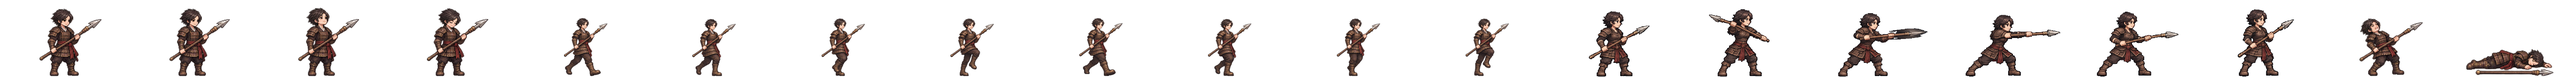
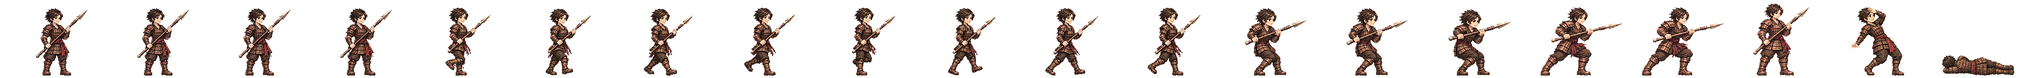
이서 말괄량이 장군 새 전투 띠를 게임에 넣음(서기·걷기·창 찌르기 여덟 칸·쓰러짐·머리 털고 씩 웃기)
찌르기 첫 판은 몸이 서기보다 작고 가늘어 한 번 다시 그렸다. 다시 그린 판은 어깨·팔 부피가 서기와 같지만 끝 칸이 7% 크다(두 판 모두 띠 검사 합격 · 눈으로 견주어 다시 그린 판을 씀).

Claude-Session: https://claude.ai/code/session_01TRiuN7s6aDfSnaHxrkctmU

Changed region(s): [[0.4688, 0.0625, 1.0, 0.9688], [0.2188, 0.125, 0.4375, 0.9688], [0.0, 0.125, 0.1875, 0.9688]]

diff --git a/src/realm/data/spritePx.ts b/src/realm/data/spritePx.ts
@@ -1,3 +1,3 @@
 /** public/realm/anim-px/manifest.json 의 사본 — tools/sprite-normalize.mjs 가 만든다 (손으로 고치지 말 것). 칸 [가로, 세로] · feet = 발 줄(칸 위에서 y) · bodyPx = 서 있는 몸 키 */
 import { expandManifest } from './sprite-manifest.ts'
-export const SPRITE_PX: Readonly<Record<string, { readonly cell: readonly [number, number]; readonly feet: number; readonly bodyPx: number; readonly kind: 'general' | 'soldier' | 'folk' | 'crowd'; readonly cells: number }>> = expandManifest<{ readonly cell: readonly [number, number]; readonly feet: number; readonly bodyPx: number; readonly kind: 'general' | 'soldier' | 'folk' | 'crowd'; readonly cells: number }>([{"cell":[166,128],"feet":126,"bodyPx":124,"kind":"soldier","cells":20},{"cell":[116,128],"feet":126,"bodyPx":117,"kind":"soldier","cells":20},{"cell":[127,128],"feet":126,"bodyPx":116,"kind":"soldier","cells":20},{"cell":[269,128],"feet":126,"bodyPx":126,"kind":"soldier","cells":20},{"cell":[503,128],"feet":126,"bodyPx":127,"kind":"soldier","cells":20},{"cell":[614,128],"feet":126,"bodyPx":126,"kind":"soldier","cells":20},{"cell":[200,160],"feet":156,"bodyPx":138,"kind":"general","cells":20},{"cell":[208,160],"feet":155,"bodyPx":138,"kind":"general","cells":20},{"cell":[208,160],"feet":154,"bodyPx":138,"kind":"general","cells":20},{"cell":[304,160],"feet":155,"bodyPx":135,"kind":"general","cells":20},{"cell":[224,160],"feet":156,"bodyPx":139,"kind":"general","cells":20},{"cell":[184,160],"feet":156,"bodyPx":138,"kind":"general","cells":20},{"cell":[208,160],"feet":154,"bodyPx":136,"kind":"general","cells":20},{"cell":[240,160],"feet":156,"bodyPx":138,"kind":"general","cells":20},{"cell":[232,160],"feet":156,"bodyPx":138,"kind":"general","cells":20},{"cell":[208,160],"feet":156,"bodyPx":138,"kind":"general","cells":20},{"cell":[168,160],"feet":156,"bodyPx":138,"kind":"general","cells":20},{"cell":[192,160],"feet":156,"bodyPx":138,"kind":"general","cells":20},{"cell":[168,160],"feet":156,"bodyPx":124,"kind":"general","cells":20},{"cell":[216,160],"feet":156,"bodyPx":130,"kind":"general","cells":20},{"cell":[200,160],"feet":156,"bodyPx":116,"kind":"general","cells":20},{"cell":[200,160],"feet":156,"bodyPx":135,"kind":"general","cells":20},{"cell":[280,160],"feet":156,"bodyPx":138,"kind":"general","cells":20},{"cell":[232,160],"feet":155,"bodyPx":138,"kind":"general","cells":20},{"cell":[232,160],"feet":156,"bodyPx":134,"kind":"general","cells":20},{"cell":[144,160],"feet":156,"bodyPx":70,"kind":"general","cells":20},{"cell":[208,160],"feet":156,"bodyPx":70,"kind":"general","cells":20},{"cell":[192,160],"feet":156,"bodyPx":70,"kind":"general","cells":20},{"cell":[240,160],"feet":155,"bodyPx":138,"kind":"general","cells":20},{"cell":[160,160],"feet":156,"bodyPx":135,"kind":"general","cells":20},{"cell":[192,160],"feet":156,"bodyPx":128,"kind":"general","cells":20},{"cell":[224,160],"feet":155,"bodyPx":138,"kind":"general","cells":20},{"cell":[232,160],"feet":156,"bodyPx":139,"kind":"general","cells":20},{"cell":[216,160],"feet":156,"bodyPx":138,"kind":"general","cells":20},{"cell":[208,160],"feet":156,"bodyPx":134,"kind":"general","cells":20},{"cell":[176,160],"feet":156,"bodyPx":130,"kind":"general","cells":20},{"cell":[248,160],"feet":156,"bodyPx":138,"kind":"general","cells":20},{"cell":[248,160],"feet":155,"bodyPx":138,"kind":"general","cells":20},{"cell":[192,160],"feet":155,"bodyPx":138,"kind":"general","cells":20},{"cell":[192,160],"feet":156,"bodyPx":124,"kind":"general","cells":20},{"cell":[208,160],"feet":154,"bodyPx":131,"kind":"general","cells":20},{"cell":[256,160],"feet":156,"bodyPx":138,"kind":"general","cells":20},{"cell":[232,160],"feet":156,"bodyPx":73,"kind":"general","cells":20},{"cell":[256,160],"feet":155,"bodyPx":138,"kind":"general","cells":20},{"cell":[264,160],"feet":156,"bodyPx":138,"kind":"general","cells":20},{"cell":[224,160],"feet":156,"bodyPx":138,"kind":"general","cells":20},{"cell":[224,160],"feet":156,"bodyPx":128,"kind":"general","cells":20},{"cell":[176,160],"feet":156,"bodyPx":129,"kind":"general","cells":20},{"cell":[208,160],"feet":154,"bodyPx":139,"kind":"general","cells":20},{"cell":[208,160],"feet":156,"bodyPx":132,"kind":"general","cells":20},{"cell":[216,160],"feet":155,"bodyPx":138,"kind":"general","cells":20},{"cell":[184,160],"feet":156,"bodyPx":122,"kind":"general","cells":20},{"cell":[176,160],"feet":156,"bodyPx":138,"kind":"general","cells":20},{"cell":[280,160],"feet":155,"bodyPx":133,"kind":"general","cells":20},{"cell":[176,160],"feet":156,"bodyPx":70,"kind":"general","cells":20},{"cell":[186,128],"feet":126,"bodyPx":127,"kind":"soldier","cells":20},{"cell":[298,128],"feet":126,"bodyPx":126,"kind":"soldier","cells":20},{"cell":[82,128],"feet":126,"bodyPx":114,"kind":"folk","cells":8},{"cell":[134,128],"feet":126,"bodyPx":119,"kind":"soldier","cells":20},{"cell":[380,128],"feet":126,"bodyPx":124,"kind":"soldier","cells":20},{"cell":[114,128],"feet":126,"bodyPx":115,"kind":"soldier","cells":20},{"cell":[122,128],"feet":126,"bodyPx":114,"kind":"soldier","cells":20},{"cell":[254,128],"feet":126,"bodyPx":128,"kind":"soldier","cells":20},{"cell":[438,128],"feet":126,"bodyPx":126,"kind":"soldier","cells":20},{"cell":[88,128],"feet":126,"bodyPx":113,"kind":"folk","cells":8},{"cell":[100,128],"feet":126,"bodyPx":115,"kind":"folk","cells":8},{"cell":[108,128],"feet":126,"bodyPx":115,"kind":"folk","cells":8},{"cell":[63,128],"feet":126,"bodyPx":113,"kind":"folk","cells":8},{"cell":[69,96],"feet":96,"bodyPx":96,"kind":"crowd","cells":1},{"cell":[54,96],"feet":96,"bodyPx":96,"kind":"crowd","cells":1},{"cell":[47,96],"feet":96,"bodyPx":96,"kind":"crowd","cells":1},{"cell":[49,96],"feet":96,"bodyPx":96,"kind":"crowd","cells":1},{"cell":[57,96],"feet":96,"bodyPx":96,"kind":"crowd","cells":1},{"cell":[55,96],"feet":96,"bodyPx":96,"kind":"crowd","cells":1},{"cell":[45,96],"feet":96,"bodyPx":96,"kind":"crowd","cells":1},{"cell":[53,96],"feet":96,"bodyPx":96,"kind":"crowd","cells":1},{"cell":[64,96],"feet":96,"bodyPx":96,"kind":"crowd","cells":1},{"cell":[184,160],"feet":156,"bodyPx":124,"kind":"general","cells":20},{"cell":[184,160],"feet":156,"bodyPx":134,"kind":"general","cells":20},{"cell":[224,160],"feet":156,"bodyPx":133,"kind":"general","cells":20},{"cell":[192,160],"feet":156,"bodyPx":135,"kind":"general","cells":20},{"cell":[184,160],"feet":156,"bodyPx":137,"kind":"general","cells":20},{"cell":[216,160],"feet":156,"bodyPx":134,"kind":"general","cells":20},{"cell":[216,160],"feet":156,"bodyPx":132,"kind":"general","cells":20},{"cell":[288,160],"feet":156,"bodyPx":138,"kind":"general","cells":20},{"cell":[192,160],"feet":156,"bodyPx":118,"kind":"general","cells":20},{"cell":[192,160],"feet":156,"bodyPx":134,"kind":"general","cells":20},{"cell":[192,160],"feet":157,"bodyPx":139,"kind":"general","cells":20},{"cell":[184,160],"feet":156,"bodyPx":128,"kind":"general","cells":20},{"cell":[240,160],"feet":156,"bodyPx":128,"kind":"general","cells":20},{"cell":[184,160],"feet":156,"bodyPx":132,"kind":"general","cells":20},{"cell":[208,160],"feet":156,"bodyPx":123,"kind":"general","cells":20},{"cell":[208,160],"feet":154,"bodyPx":137,"kind":"general","cells":20},{"cell":[176,160],"feet":156,"bodyPx":116,"kind":"general","cells":20},{"cell":[272,160],"feet":156,"bodyPx":138,"kind":"general","cells":20},{"cell":[176,160],"feet":156,"bodyPx":122,"kind":"general","cells":20},{"cell":[232,160],"feet":156,"bodyPx":127,"kind":"general","cells":20},{"cell":[176,160],"feet":156,"bodyPx":137,"kind":"general","cells":20},{"cell":[184,160],"feet":156,"bodyPx":133,"kind":"general","cells":20}],[["axe",0],["bandit-chief",1],["bandit-club",2],["boat",3],["bow",4],["crossbow",5],["gen-adogan",6],["gen-alpyeong",7],["gen-ara",8],["gen-areum",8],["gen-aryeong",9],["gen-bakdal",6],["gen-baram",10],["gen-bdanbi",11],["gen-beom",12],["gen-beombal",11],["gen-beomi",13],["gen-bira",14],["gen-biryu",15],["gen-budeul",16],["gen-byeol",17],["gen-daemusin",18],["gen-daeso",19],["gen-dallae2",11],["gen-dalli",11],["gen-damul",20],["gen-danbi",15],["gen-dangung",17],["gen-darae",21],["gen-dokmudeom",7],["gen-duman",22],["gen-eomni",23],["gen-eureum",24],["gen-g-bow",25],["gen-g-spear",26],["gen-g-sword",27],["gen-gaennae",6],["gen-gamsil",28],["gen-gaon",29],["gen-geota",15],["gen-geumbawi",11],["gen-geumha",30],["gen-goeun",15],["gen-gom",31],["gen-gomok",15],["gen-gureum",28],["gen-guryema",17],["gen-gwaeyu",14],["gen-haebi",8],["gen-haedal",6],["gen-haesol",32],["gen-halla",7],["gen-heo",8],["gen-hneoul",11],["gen-hogong",33],["gen-hojin",15],["gen-horselord",34],["gen-hwalmi",35],["gen-hyeokgeose",17],["gen-hyeopbo",6],["gen-irang",15],["gen-jibaekho",36],["gen-jinha",37],["gen-jita",38],["gen-jumong",39],["gen-keundol",7],["gen-maehwa",40],["gen-maenun",17],["gen-malgalgi",41],["gen-mari",13],["gen-maro",36],["gen-maryeo",15],["gen-mdallae",32],["gen-mir",6],["gen-mount",42],["gen-mulbeom",43],["gen-mulsae",33],["gen-musoe",33],["gen-noeul",8],["gen-nuri",44],["gen-ocheongan",45],["gen-odi",37],["gen-odogan",6],["gen-ogan",17],["gen-oi",46],["gen-olddaeso",24],["gen-onjo",47],["gen-pidogan",15],["gen-sagong",48],["gen-sdallae",6],["gen-sincheongan",33],["gen-singwigan",33],["gen-sinneoul",8],["gen-sobeol",23],["gen-soebi",6],["gen-soebo",49],["gen-soenun",36],["gen-sogeumbi",50],["gen-songbi",45],["gen-songyang",51],["gen-sori",52],["gen-soseono",53],["gen-suro",17],["gen-tahae",6],["gen-tneoul",45],["gen-w-bow",25],["gen-w-spear",54],["gen-waechief",15],["gen-wan",33],["gen-yeodogan",15],["gen-yucheongan",15],["gen-yusugan",36],["horse",55],["marine",56],["migrant",57],["militia",58],["pike",59],["pirate-captain",60],["pirate-sword",61],["shield",62],["spear",63],["villager-builder",64],["villager-farmer",65],["villager-porter",66],["villager-woman",67],["crowd-b1",68],["crowd-b2",69],["crowd-b3",70],["crowd-b4",71],["crowd-b5",72],["crowd-b6",73],["crowd-f1",68],["crowd-f2",73],["crowd-f3",74],["crowd-f4",75],["crowd-f5",68],["crowd-f6",76],["gen-dalbit",15],["gen-base-g-07-drunk-warrior",17],["gen-base-g-40-anya-adan",15],["gen-base-w-13-young-archer",8],["gen-base-g-03-sea-trader",13],["gen-base-w-10-pirate-captain",48],["gen-base-w-64-miri-dallae",48],["gen-base-g-41-goja-bau",13],["gen-base-g-42-dokro-garam",44],["gen-base-g-09-farmer-conscript",33],["gen-base-w-02-goguryeo-lady",33],["gen-base-w-17-mahan-pearl-diver",8],["gen-base-g-17-saro-isageum",49],["gen-base-g-18-daegaya-king",77],["gen-base-g-35-dabeol-dalgu",15],["gen-base-g-19-sabeol-veteran",33],["gen-base-w-23-usisan-whale-queen",8],["gen-base-g-36-gammun-gamdol",45],["gen-base-g-20-samul-sea-lord",41],["gen-base-g-37-eumjeup-jeup",11],["gen-base-g-38-chopal-palmae",17],["gen-base-w-75-daegaya-soemoe",17],["gen-base-g-45-dabeol-deulgae",11],["gen-base-g-04-jinhan-giant",15],["gen-base-g-08-veteran",15],["gen-base-w-18-jinhan-salt-widow",15],["gen-base-w-12-court-dancer",78],["gen-base-w-83-gyeonji-beodeul",79],["gen-base-w-05-baekje-queen",80],["gen-base-w-21-baekje-court-dancer",11],["gen-base-g-01-master-smith",81],["gen-base-g-93-jomun-solgae",35],["gen-base-g-57-bihwa-neup",13],["gen-base-w-72-eumjeup-beol",15],["gen-base-w-102-garak-dana",33],["gen-base-g-68-baekje-onnuri",15],["gen-base-w-27-mokji-jinha",6],["gen-base-g-22-ungcheon-gomnae",6],["gen-base-g-23-sangdang-soedal",15],["gen-base-g-24-wansan-onsan",6],["gen-base-g-25-balla-keunmoe",33],["gen-base-g-61-heomcheuk-bawi",33],["gen-base-g-88-wander-soeul",45],["gen-base-w-14-feast-spy",6],["gen-base-g-12-silla-youth",82],["gen-base-w-08-mahan-warrior",8],["gen-base-g-62-beonye-hanul",13],["gen-base-g-63-heomcheuk-beogeum",15],["gen-base-g-84-wander-seoneul",15],["gen-base-w-50-siljik-mulga",33],["gen-base-g-46-uga-nureongso",33],["gen-base-w-80-usan-gangchi",13],["gen-base-g-47-guga-sanyanggae",33],["gen-base-w-76-gampyeong-baetsagong",36],["gen-base-g-05-mahan-chieftain",83],["gen-base-g-58-usan-uhae",15],["gen-base-g-27-maek-maekdol",15],["gen-base-w-53-hwanna-gabi",16],["gen-base-w-29-golpo-janmul",36],["gen-base-g-53-baekje-haeru",6],["gen-base-w-71-yeonna-neoul",13],["gen-base-w-79-yangmaek-solmae",33],["gen-base-w-34-chopal-deulme",44],["gen-base-g-44-maga-malgup",84],["gen-base-w-31-dabeol-dalbit",48],["gen-base-g-51-biryuna-mulgyeol",45],["gen-base-g-48-gwanna-musoe",15],["gen-base-g-32-uga-sodu",14],["gen-base-g-49-goguryeo-sona",85],["gen-base-g-30-gwanna-soemoe",45],["gen-base-g-52-tamna-oreum",11],["gen-base-g-29-yeonna-myeongsol",39],["gen-base-w-56-dongokjeo-sogeum",86],["gen-base-g-54-mokji-mahan",14],["gen-base-g-33-jeoga-metdol",17],["gen-base-w-36-baekje-maena",17],["gen-base-w-38-sangdang-bulmae",6],["gen-base-w-39-gosaburi-galmae",87],["gen-base-w-40-mujin-munui",49],["gen-base-w-41-hwanna-beodeul",88],["gen-base-w-43-uga-nuri",41],["gen-base-w-45-tamna-oreumbi",11],["gen-base-g-60-golbeol-golgae",11],["gen-base-g-61-apdok-ap",33],["gen-base-g-62-gammun-gamnamu",6],["gen-base-g-63-chopal-yeoul",36],["gen-base-g-64-michuhol-sogeumkkun",13],["gen-base-g-65-sangdang-soemangchi",45],["gen-base-g-66-geonma-malbalgup",89],["gen-base-g-67-gosaburi-buri",90],["gen-base-g-68-mujin-bitgoeul",11],["gen-base-g-69-goryong-yong",45],["gen-base-g-70-siljik-pado",13],["gen-base-w-81-byeokjin-byeolbit",14],["gen-base-w-46-geonma-maru",36],["gen-base-w-48-mujin-mudeung",13],["gen-base-g-26-gampyeong-gaetbeol",14],["gen-base-g-60-eupcha-hangyeol",91],["gen-base-g-15-shaman-man",33],["gen-base-g-85-wander-ure",36],["gen-base-g-43-hwanna-amnok",15],["gen-base-g-50-bullae-gwaha",80],["gen-base-g-55-saro-bakdal",15],["gen-base-g-56-haseulla-gwahama",6],["gen-base-w-06-buyeo-huntress",92],["gen-base-w-22-dongye-tiger-huntress",8],["gen-base-w-25-bihwa-priestess",33],["gen-base-w-24-apdok-queen",11],["gen-base-w-61-iseo-sinae",15],["gen-base-w-26-iseo-tomboy-general",44],["gen-base-g-59-yangmaek-maekson",93],["gen-aw1-haebi",45],["gen-aw1-soseono",94],["gen-aw1-gamsil",11],["gen-aw1-mir",52],["gen-aw1-dangung",6],["gen-aw1-ara",45],["gen-aw1-jumong",95],["gen-aw1-onjo",96],["gen-aw1-base-w-83-gyeonji-beodeul",17],["gen-aw1-heo",44],["gen-aw1-base-g-38-chopal-palmae",6],["gen-aw1-base-w-25-bihwa-priestess",78],["gen-aw1-sori",16],["gen-aw1-gomok",6],["gen-aw1-irang",17],["gen-aw1-budeul",16],["gen-aw1-gom",13],["gen-aw1-sdallae",6],["gen-aw1-base-w-13-young-archer",6],["gen-aw1-base-w-36-baekje-maena",97],["gen-aw1-base-g-09-farmer-conscript",44],["gen-aw1-base-w-02-goguryeo-lady",98],["gen-aw1-haedal",11],["gen-aw1-hogong",6],["gen-aw1-maehwa",52],["gen-aw1-base-w-06-buyeo-huntress",14],["gen-aw1-base-w-08-mahan-warrior",45],["gen-aw1-base-w-29-golpo-janmul",45],["gen-aw1-base-w-31-dabeol-dalbit",17],["gen-aw1-base-w-38-sangdang-bulmae",16],["gen-aw1-bira",33],["gen-aw1-base-w-53-hwanna-gabi",16],["gen-aw1-base-w-56-dongokjeo-sogeum",52],["gen-aw1-base-w-72-eumjeup-beol",17],["gen-aw1-bdanbi",16],["gen-aw1-beom",11],["gen-aw1-beombal",11],["gen-aw1-byeol",17],["gen-aw1-dalli",52],["gen-aw1-malgalgi",36],["gen-aw1-sincheongan",33]])
+export const SPRITE_PX: Readonly<Record<string, { readonly cell: readonly [number, number]; readonly feet: number; readonly bodyPx: number; readonly kind: 'general' | 'soldier' | 'folk' | 'crowd'; readonly cells: number }>> = expandManifest<{ readonly cell: readonly [number, number]; readonly feet: number; readonly bodyPx: number; readonly kind: 'general' | 'soldier' | 'folk' | 'crowd'; readonly cells: number }>([{"cell":[166,128],"feet":126,"bodyPx":124,"kind":"soldier","cells":20},{"cell":[116,128],"feet":126,"bodyPx":117,"kind":"soldier","cells":20},{"cell":[127,128],"feet":126,"bodyPx":116,"kind":"soldier","cells":20},{"cell":[269,128],"feet":126,"bodyPx":126,"kind":"soldier","cells":20},{"cell":[503,128],"feet":126,"bodyPx":127,"kind":"soldier","cells":20},{"cell":[614,128],"feet":126,"bodyPx":126,"kind":"soldier","cells":20},{"cell":[200,160],"feet":156,"bodyPx":138,"kind":"general","cells":20},{"cell":[208,160],"feet":155,"bodyPx":138,"kind":"general","cells":20},{"cell":[208,160],"feet":154,"bodyPx":138,"kind":"general","cells":20},{"cell":[304,160],"feet":155,"bodyPx":135,"kind":"general","cells":20},{"cell":[224,160],"feet":156,"bodyPx":139,"kind":"general","cells":20},{"cell":[184,160],"feet":156,"bodyPx":138,"kind":"general","cells":20},{"cell":[208,160],"feet":154,"bodyPx":136,"kind":"general","cells":20},{"cell":[240,160],"feet":156,"bodyPx":138,"kind":"general","cells":20},{"cell":[232,160],"feet":156,"bodyPx":138,"kind":"general","cells":20},{"cell":[208,160],"feet":156,"bodyPx":138,"kind":"general","cells":20},{"cell":[168,160],"feet":156,"bodyPx":138,"kind":"general","cells":20},{"cell":[192,160],"feet":156,"bodyPx":138,"kind":"general","cells":20},{"cell":[168,160],"feet":156,"bodyPx":124,"kind":"general","cells":20},{"cell":[216,160],"feet":156,"bodyPx":130,"kind":"general","cells":20},{"cell":[200,160],"feet":156,"bodyPx":116,"kind":"general","cells":20},{"cell":[200,160],"feet":156,"bodyPx":135,"kind":"general","cells":20},{"cell":[280,160],"feet":156,"bodyPx":138,"kind":"general","cells":20},{"cell":[232,160],"feet":155,"bodyPx":138,"kind":"general","cells":20},{"cell":[232,160],"feet":156,"bodyPx":134,"kind":"general","cells":20},{"cell":[144,160],"feet":156,"bodyPx":70,"kind":"general","cells":20},{"cell":[208,160],"feet":156,"bodyPx":70,"kind":"general","cells":20},{"cell":[192,160],"feet":156,"bodyPx":70,"kind":"general","cells":20},{"cell":[240,160],"feet":155,"bodyPx":138,"kind":"general","cells":20},{"cell":[160,160],"feet":156,"bodyPx":135,"kind":"general","cells":20},{"cell":[192,160],"feet":156,"bodyPx":128,"kind":"general","cells":20},{"cell":[224,160],"feet":155,"bodyPx":138,"kind":"general","cells":20},{"cell":[232,160],"feet":156,"bodyPx":139,"kind":"general","cells":20},{"cell":[216,160],"feet":156,"bodyPx":138,"kind":"general","cells":20},{"cell":[208,160],"feet":156,"bodyPx":134,"kind":"general","cells":20},{"cell":[176,160],"feet":156,"bodyPx":130,"kind":"general","cells":20},{"cell":[248,160],"feet":156,"bodyPx":138,"kind":"general","cells":20},{"cell":[248,160],"feet":155,"bodyPx":138,"kind":"general","cells":20},{"cell":[192,160],"feet":155,"bodyPx":138,"kind":"general","cells":20},{"cell":[192,160],"feet":156,"bodyPx":124,"kind":"general","cells":20},{"cell":[208,160],"feet":154,"bodyPx":131,"kind":"general","cells":20},{"cell":[256,160],"feet":156,"bodyPx":138,"kind":"general","cells":20},{"cell":[232,160],"feet":156,"bodyPx":73,"kind":"general","cells":20},{"cell":[256,160],"feet":155,"bodyPx":138,"kind":"general","cells":20},{"cell":[264,160],"feet":156,"bodyPx":138,"kind":"general","cells":20},{"cell":[224,160],"feet":156,"bodyPx":138,"kind":"general","cells":20},{"cell":[224,160],"feet":156,"bodyPx":128,"kind":"general","cells":20},{"cell":[176,160],"feet":156,"bodyPx":129,"kind":"general","cells":20},{"cell":[208,160],"feet":154,"bodyPx":139,"kind":"general","cells":20},{"cell":[208,160],"feet":156,"bodyPx":132,"kind":"general","cells":20},{"cell":[216,160],"feet":155,"bodyPx":138,"kind":"general","cells":20},{"cell":[184,160],"feet":156,"bodyPx":122,"kind":"general","cells":20},{"cell":[176,160],"feet":156,"bodyPx":138,"kind":"general","cells":20},{"cell":[280,160],"feet":155,"bodyPx":133,"kind":"general","cells":20},{"cell":[176,160],"feet":156,"bodyPx":70,"kind":"general","cells":20},{"cell":[186,128],"feet":126,"bodyPx":127,"kind":"soldier","cells":20},{"cell":[298,128],"feet":126,"bodyPx":126,"kind":"soldier","cells":20},{"cell":[82,128],"feet":126,"bodyPx":114,"kind":"folk","cells":8},{"cell":[134,128],"feet":126,"bodyPx":119,"kind":"soldier","cells":20},{"cell":[380,128],"feet":126,"bodyPx":124,"kind":"soldier","cells":20},{"cell":[114,128],"feet":126,"bodyPx":115,"kind":"soldier","cells":20},{"cell":[122,128],"feet":126,"bodyPx":114,"kind":"soldier","cells":20},{"cell":[254,128],"feet":126,"bodyPx":128,"kind":"soldier","cells":20},{"cell":[438,128],"feet":126,"bodyPx":126,"kind":"soldier","cells":20},{"cell":[88,128],"feet":126,"bodyPx":113,"kind":"folk","cells":8},{"cell":[100,128],"feet":126,"bodyPx":115,"kind":"folk","cells":8},{"cell":[108,128],"feet":126,"bodyPx":115,"kind":"folk","cells":8},{"cell":[63,128],"feet":126,"bodyPx":113,"kind":"folk","cells":8},{"cell":[69,96],"feet":96,"bodyPx":96,"kind":"crowd","cells":1},{"cell":[54,96],"feet":96,"bodyPx":96,"kind":"crowd","cells":1},{"cell":[47,96],"feet":96,"bodyPx":96,"kind":"crowd","cells":1},{"cell":[49,96],"feet":96,"bodyPx":96,"kind":"crowd","cells":1},{"cell":[57,96],"feet":96,"bodyPx":96,"kind":"crowd","cells":1},{"cell":[55,96],"feet":96,"bodyPx":96,"kind":"crowd","cells":1},{"cell":[45,96],"feet":96,"bodyPx":96,"kind":"crowd","cells":1},{"cell":[53,96],"feet":96,"bodyPx":96,"kind":"crowd","cells":1},{"cell":[64,96],"feet":96,"bodyPx":96,"kind":"crowd","cells":1},{"cell":[184,160],"feet":156,"bodyPx":124,"kind":"general","cells":20},{"cell":[184,160],"feet":156,"bodyPx":134,"kind":"general","cells":20},{"cell":[224,160],"feet":156,"bodyPx":133,"kind":"general","cells":20},{"cell":[192,160],"feet":156,"bodyPx":135,"kind":"general","cells":20},{"cell":[184,160],"feet":156,"bodyPx":137,"kind":"general","cells":20},{"cell":[216,160],"feet":156,"bodyPx":134,"kind":"general","cells":20},{"cell":[216,160],"feet":156,"bodyPx":132,"kind":"general","cells":20},{"cell":[288,160],"feet":156,"bodyPx":138,"kind":"general","cells":20},{"cell":[192,160],"feet":156,"bodyPx":118,"kind":"general","cells":20},{"cell":[192,160],"feet":156,"bodyPx":134,"kind":"general","cells":20},{"cell":[192,160],"feet":157,"bodyPx":139,"kind":"general","cells":20},{"cell":[184,160],"feet":156,"bodyPx":128,"kind":"general","cells":20},{"cell":[240,160],"feet":156,"bodyPx":128,"kind":"general","cells":20},{"cell":[184,160],"feet":156,"bodyPx":132,"kind":"general","cells":20},{"cell":[208,160],"feet":156,"bodyPx":123,"kind":"general","cells":20},{"cell":[208,160],"feet":154,"bodyPx":137,"kind":"general","cells":20},{"cell":[176,160],"feet":156,"bodyPx":116,"kind":"general","cells":20},{"cell":[272,160],"feet":156,"bodyPx":138,"kind":"general","cells":20},{"cell":[176,160],"feet":156,"bodyPx":122,"kind":"general","cells":20},{"cell":[232,160],"feet":156,"bodyPx":127,"kind":"general","cells":20},{"cell":[176,160],"feet":156,"bodyPx":137,"kind":"general","cells":20},{"cell":[184,160],"feet":156,"bodyPx":133,"kind":"general","cells":20}],[["axe",0],["bandit-chief",1],["bandit-club",2],["boat",3],["bow",4],["crossbow",5],["gen-adogan",6],["gen-alpyeong",7],["gen-ara",8],["gen-areum",8],["gen-aryeong",9],["gen-bakdal",6],["gen-baram",10],["gen-bdanbi",11],["gen-beom",12],["gen-beombal",11],["gen-beomi",13],["gen-bira",14],["gen-biryu",15],["gen-budeul",16],["gen-byeol",17],["gen-daemusin",18],["gen-daeso",19],["gen-dallae2",11],["gen-dalli",11],["gen-damul",20],["gen-danbi",15],["gen-dangung",17],["gen-darae",21],["gen-dokmudeom",7],["gen-duman",22],["gen-eomni",23],["gen-eureum",24],["gen-g-bow",25],["gen-g-spear",26],["gen-g-sword",27],["gen-gaennae",6],["gen-gamsil",28],["gen-gaon",29],["gen-geota",15],["gen-geumbawi",11],["gen-geumha",30],["gen-goeun",15],["gen-gom",31],["gen-gomok",15],["gen-gureum",28],["gen-guryema",17],["gen-gwaeyu",14],["gen-haebi",8],["gen-haedal",6],["gen-haesol",32],["gen-halla",7],["gen-heo",8],["gen-hneoul",11],["gen-hogong",33],["gen-hojin",15],["gen-horselord",34],["gen-hwalmi",35],["gen-hyeokgeose",17],["gen-hyeopbo",6],["gen-irang",15],["gen-jibaekho",36],["gen-jinha",37],["gen-jita",38],["gen-jumong",39],["gen-keundol",7],["gen-maehwa",40],["gen-maenun",17],["gen-malgalgi",41],["gen-mari",13],["gen-maro",36],["gen-maryeo",15],["gen-mdallae",32],["gen-mir",6],["gen-mount",42],["gen-mulbeom",43],["gen-mulsae",33],["gen-musoe",33],["gen-noeul",8],["gen-nuri",44],["gen-ocheongan",45],["gen-odi",37],["gen-odogan",6],["gen-ogan",17],["gen-oi",46],["gen-olddaeso",24],["gen-onjo",47],["gen-pidogan",15],["gen-sagong",48],["gen-sdallae",6],["gen-sincheongan",33],["gen-singwigan",33],["gen-sinneoul",8],["gen-sobeol",23],["gen-soebi",6],["gen-soebo",49],["gen-soenun",36],["gen-sogeumbi",50],["gen-songbi",45],["gen-songyang",51],["gen-sori",52],["gen-soseono",53],["gen-suro",17],["gen-tahae",6],["gen-tneoul",45],["gen-w-bow",25],["gen-w-spear",54],["gen-waechief",15],["gen-wan",33],["gen-yeodogan",15],["gen-yucheongan",15],["gen-yusugan",36],["horse",55],["marine",56],["migrant",57],["militia",58],["pike",59],["pirate-captain",60],["pirate-sword",61],["shield",62],["spear",63],["villager-builder",64],["villager-farmer",65],["villager-porter",66],["villager-woman",67],["crowd-b1",68],["crowd-b2",69],["crowd-b3",70],["crowd-b4",71],["crowd-b5",72],["crowd-b6",73],["crowd-f1",68],["crowd-f2",73],["crowd-f3",74],["crowd-f4",75],["crowd-f5",68],["crowd-f6",76],["gen-dalbit",15],["gen-base-g-07-drunk-warrior",17],["gen-base-g-40-anya-adan",15],["gen-base-w-13-young-archer",8],["gen-base-g-03-sea-trader",13],["gen-base-w-10-pirate-captain",48],["gen-base-w-64-miri-dallae",48],["gen-base-g-41-goja-bau",13],["gen-base-g-42-dokro-garam",44],["gen-base-g-09-farmer-conscript",33],["gen-base-w-02-goguryeo-lady",33],["gen-base-w-17-mahan-pearl-diver",8],["gen-base-g-17-saro-isageum",49],["gen-base-g-18-daegaya-king",77],["gen-base-g-35-dabeol-dalgu",15],["gen-base-g-19-sabeol-veteran",33],["gen-base-w-23-usisan-whale-queen",8],["gen-base-g-36-gammun-gamdol",45],["gen-base-g-20-samul-sea-lord",41],["gen-base-g-37-eumjeup-jeup",11],["gen-base-g-38-chopal-palmae",17],["gen-base-w-75-daegaya-soemoe",17],["gen-base-g-45-dabeol-deulgae",11],["gen-base-g-04-jinhan-giant",15],["gen-base-g-08-veteran",15],["gen-base-w-18-jinhan-salt-widow",15],["gen-base-w-12-court-dancer",78],["gen-base-w-83-gyeonji-beodeul",79],["gen-base-w-05-baekje-queen",80],["gen-base-w-21-baekje-court-dancer",11],["gen-base-g-01-master-smith",81],["gen-base-g-93-jomun-solgae",35],["gen-base-g-57-bihwa-neup",13],["gen-base-w-72-eumjeup-beol",15],["gen-base-w-102-garak-dana",33],["gen-base-g-68-baekje-onnuri",15],["gen-base-w-27-mokji-jinha",6],["gen-base-g-22-ungcheon-gomnae",6],["gen-base-g-23-sangdang-soedal",15],["gen-base-g-24-wansan-onsan",6],["gen-base-g-25-balla-keunmoe",33],["gen-base-g-61-heomcheuk-bawi",33],["gen-base-g-88-wander-soeul",45],["gen-base-w-14-feast-spy",6],["gen-base-g-12-silla-youth",82],["gen-base-w-08-mahan-warrior",8],["gen-base-g-62-beonye-hanul",13],["gen-base-g-63-heomcheuk-beogeum",15],["gen-base-g-84-wander-seoneul",15],["gen-base-w-50-siljik-mulga",33],["gen-base-g-46-uga-nureongso",33],["gen-base-w-80-usan-gangchi",13],["gen-base-g-47-guga-sanyanggae",33],["gen-base-w-76-gampyeong-baetsagong",36],["gen-base-g-05-mahan-chieftain",83],["gen-base-g-58-usan-uhae",15],["gen-base-g-27-maek-maekdol",15],["gen-base-w-53-hwanna-gabi",16],["gen-base-w-29-golpo-janmul",36],["gen-base-g-53-baekje-haeru",6],["gen-base-w-71-yeonna-neoul",13],["gen-base-w-79-yangmaek-solmae",33],["gen-base-w-34-chopal-deulme",44],["gen-base-g-44-maga-malgup",84],["gen-base-w-31-dabeol-dalbit",48],["gen-base-g-51-biryuna-mulgyeol",45],["gen-base-g-48-gwanna-musoe",15],["gen-base-g-32-uga-sodu",14],["gen-base-g-49-goguryeo-sona",85],["gen-base-g-30-gwanna-soemoe",45],["gen-base-g-52-tamna-oreum",11],["gen-base-g-29-yeonna-myeongsol",39],["gen-base-w-56-dongokjeo-sogeum",86],["gen-base-g-54-mokji-mahan",14],["gen-base-g-33-jeoga-metdol",17],["gen-base-w-36-baekje-maena",17],["gen-base-w-38-sangdang-bulmae",6],["gen-base-w-39-gosaburi-galmae",87],["gen-base-w-40-mujin-munui",49],["gen-base-w-41-hwanna-beodeul",88],["gen-base-w-43-uga-nuri",41],["gen-base-w-45-tamna-oreumbi",11],["gen-base-g-60-golbeol-golgae",11],["gen-base-g-61-apdok-ap",33],["gen-base-g-62-gammun-gamnamu",6],["gen-base-g-63-chopal-yeoul",36],["gen-base-g-64-michuhol-sogeumkkun",13],["gen-base-g-65-sangdang-soemangchi",45],["gen-base-g-66-geonma-malbalgup",89],["gen-base-g-67-gosaburi-buri",90],["gen-base-g-68-mujin-bitgoeul",11],["gen-base-g-69-goryong-yong",45],["gen-base-g-70-siljik-pado",13],["gen-base-w-81-byeokjin-byeolbit",14],["gen-base-w-46-geonma-maru",36],["gen-base-w-48-mujin-mudeung",13],["gen-base-g-26-gampyeong-gaetbeol",14],["gen-base-g-60-eupcha-hangyeol",91],["gen-base-g-15-shaman-man",33],["gen-base-g-85-wander-ure",36],["gen-base-g-43-hwanna-amnok",15],["gen-base-g-50-bullae-gwaha",80],["gen-base-g-55-saro-bakdal",15],["gen-base-g-56-haseulla-gwahama",6],["gen-base-w-06-buyeo-huntress",92],["gen-base-w-22-dongye-tiger-huntress",8],["gen-base-w-25-bihwa-priestess",33],["gen-base-w-24-apdok-queen",11],["gen-base-w-61-iseo-sinae",15],["gen-base-w-26-iseo-tomboy-general",8],["gen-base-g-59-yangmaek-maekson",93],["gen-aw1-haebi",45],["gen-aw1-soseono",94],["gen-aw1-gamsil",11],["gen-aw1-mir",52],["gen-aw1-dangung",6],["gen-aw1-ara",45],["gen-aw1-jumong",95],["gen-aw1-onjo",96],["gen-aw1-base-w-83-gyeonji-beodeul",17],["gen-aw1-heo",44],["gen-aw1-base-g-38-chopal-palmae",6],["gen-aw1-base-w-25-bihwa-priestess",78],["gen-aw1-sori",16],["gen-aw1-gomok",6],["gen-aw1-irang",17],["gen-aw1-budeul",16],["gen-aw1-gom",13],["gen-aw1-sdallae",6],["gen-aw1-base-w-13-young-archer",6],["gen-aw1-base-w-36-baekje-maena",97],["gen-aw1-base-g-09-farmer-conscript",44],["gen-aw1-base-w-02-goguryeo-lady",98],["gen-aw1-haedal",11],["gen-aw1-hogong",6],["gen-aw1-maehwa",52],["gen-aw1-base-w-06-buyeo-huntress",14],["gen-aw1-base-w-08-mahan-warrior",45],["gen-aw1-base-w-29-golpo-janmul",45],["gen-aw1-base-w-31-dabeol-dalbit",17],["gen-aw1-base-w-38-sangdang-bulmae",16],["gen-aw1-bira",33],["gen-aw1-base-w-53-hwanna-gabi",16],["gen-aw1-base-w-56-dongokjeo-sogeum",52],["gen-aw1-base-w-72-eumjeup-beol",17],["gen-aw1-bdanbi",16],["gen-aw1-beom",11],["gen-aw1-beombal",11],["gen-aw1-byeol",17],["gen-aw1-dalli",52],["gen-aw1-malgalgi",36],["gen-aw1-sincheongan",33]])

diff --git a/src/duel/view.ts b/src/duel/view.ts
@@ -100,7 +100,7 @@ const crowdFront = [1, 2, 3, 4, 5, 6].map((i) => img(`realm/duel/crowd/b${i}.png
 const crowdReady = (set: HTMLImageElement[]): boolean => set.every((im) => im.complete && im.naturalWidth > 0)
 const pxMode = cfg.px !== false && params.get('px') !== '0'
 /** 겨루기 전용 옛 띠(duel/sprites) 대신 열전과 같은 도트 띠(anim-px)를 쓰는 장수 — 두 판에서 같은 모습 · 서기 계획·쓰러지는 칸도 같다 (11-23 범 · 매화 · 달빛 · 11-24 해비 · 아룸) */
-const PX_DUEL: ReadonlySet<string> = new Set(['beom', 'maehwa', 'base-w-31-dabeol-dalbit', 'haebi', 'areum', 'base-w-13-young-archer', 'base-w-10-pirate-captain', 'base-w-17-mahan-pearl-diver', 'base-w-06-buyeo-huntress', 'base-w-64-miri-dallae', 'ara', 'base-w-22-dongye-tiger-huntress', 'noeul', 'sagong', 'sinneoul', 'heo', 'base-w-08-mahan-warrior', 'base-w-23-usisan-whale-queen'])
+const PX_DUEL: ReadonlySet<string> = new Set(['beom', 'maehwa', 'base-w-31-dabeol-dalbit', 'haebi', 'areum', 'base-w-13-young-archer', 'base-w-10-pirate-captain', 'base-w-17-mahan-pearl-diver', 'base-w-06-buyeo-huntress', 'base-w-64-miri-dallae', 'ara', 'base-w-22-dongye-tiger-huntress', 'noeul', 'sagong', 'sinneoul', 'heo', 'base-w-08-mahan-warrior', 'base-w-23-usisan-whale-queen', 'base-w-26-iseo-tomboy-general'])
 /** 띠 그림 — 기본은 anim-px(도트 규격) 먼저, 없으면 옛 띠로 (img 의 onerror 가 갈아 끼운다) */
 const strip = (s: string): HTMLImageElement => pxMode
   ? DUEL_ATLASES[s] !== undefined && !PX_DUEL.has(s) ? img(`realm/duel/sprites/gen-${s}.png`, `realm/anim-px/gen-${s}.png`)

diff --git a/src/tune/params.ts b/src/tune/params.ts
@@ -1428,6 +1428,7 @@ export const HAEBI_IDLE = {
     heo: { cells: 34, base: [0, 1], hold: 2.4, fall: [18, 20, 21, 19], quirk: [22, 23, 24, 25], quirkTimes: [.3, .32, .4, .28], attack: { cells: [26, 27, 28, 29, 30, 31, 32, 33], times: [.09, .08, .11, .05, .15, .07, .08, .12], hit: 4 }, xGeom: { h: 224, root: 92, foot: 216 } },
     'base-w-08-mahan-warrior': { cells: 34, base: [0, 1], hold: 2.4, fall: [18, 20, 21, 19], quirk: [22, 23, 24, 25], quirkTimes: [.3, .32, .4, .28], attack: { cells: [26, 27, 28, 29, 30, 31, 32, 33], times: [.09, .08, .11, .05, .15, .07, .08, .12], hit: 4 }, xGeom: { h: 224, root: 92, foot: 216 } },
     'base-w-23-usisan-whale-queen': { cells: 34, base: [0, 1], hold: 2.4, fall: [18, 20, 21, 19], quirk: [22, 23, 24, 25], quirkTimes: [.3, .32, .4, .28], attack: { cells: [26, 27, 28, 29, 30, 31, 32, 33], times: [.09, .08, .11, .05, .15, .07, .08, .12], hit: 4 }, xGeom: { h: 224, root: 92, foot: 216 } },
+    'base-w-26-iseo-tomboy-general': { cells: 34, base: [0, 1], hold: 2.4, fall: [18, 20, 21, 19], quirk: [22, 23, 24, 25], quirkTimes: [.3, .32, .4, .28], attack: { cells: [26, 27, 28, 29, 30, 31, 32, 33], times: [.09, .08, .11, .05, .15, .07, .08, .12], hit: 4 }, xGeom: { h: 224, root: 92, foot: 216 } },
   },
 } as const
 export const HAEBI_ANIM = {

diff --git a/src/raid/hero-hd.ts b/src/raid/hero-hd.ts
@@ -36,7 +36,6 @@ export const HERO_HD: Readonly<Record<string, string>> = {
   'anim-px/gen-base-w-34-chopal-deulme.png': 'anim-px/gen-base-w-34-chopal-deulme_hd.png',
   'anim-px/gen-base-w-29-golpo-janmul.png': 'anim-px/gen-base-w-29-golpo-janmul_hd.png',
   'anim-px/gen-base-w-27-mokji-jinha.png': 'anim-px/gen-base-w-27-mokji-jinha_hd.png',
-  'anim-px/gen-base-w-26-iseo-tomboy-general.png': 'anim-px/gen-base-w-26-iseo-tomboy-general_hd.png',
   'anim-px/gen-base-w-25-bihwa-priestess.png': 'anim-px/gen-base-w-25-bihwa-priestess_hd.png',
   'anim-px/gen-aw1-base-w-36-baekje-maena.png': 'anim-px/gen-aw1-base-w-36-baekje-maena_hd.png',
   'anim-px/gen-aw1-base-w-31-dabeol-dalbit.png': 'anim-px/gen-aw1-base-w-31-dabeol-dalbit_hd.png',
